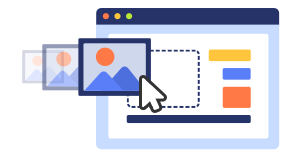
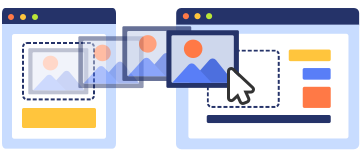
优化界面

diff --git a/src/components/file-detail/com.vue b/src/components/file-detail/com.vue
@@ -55,7 +55,7 @@
     background-color: #FFF;
     img {
       display: block;
-      width: 150px;
+      width: 180px;
       height: 80px;
       margin-bottom: $LAYOUT_MAIN_PADDING / 2;
     }
@@ -79,7 +79,7 @@
     <div class="image-info">{{ file.width }} x {{ file.height }} {{ size }}</div>
     <div class="image-guide" flex="dir:top main:center cross:center">
       <img src="/image/image-use-guide.png" draggable="false">
-      <div class="image-guide-label">请将图片拖至其它应用程序使用</div>
+      <div class="image-guide-label">请将图片拖拽至其它应用程序窗口使用</div>
     </div>
   </div>
 </template>

diff --git a/src/components/list-download/com.vue b/src/components/list-download/com.vue
@@ -3,7 +3,7 @@
   @extend .unselect;
   margin: 0 -16px;
   height: 400px;
-  width: 250px;
+  width: 300px;
   overflow: scroll;
   .list-download-item {
     @extend .nowrap;

diff --git a/src/components/list-log/com.vue b/src/components/list-log/com.vue
@@ -3,7 +3,7 @@
   @extend .unselect;
   margin: 0 -16px;
   height: 400px;
-  width: 240px;
+  width: 300px;
   overflow: scroll;
   .list-log-item {
     @extend .nowrap;
